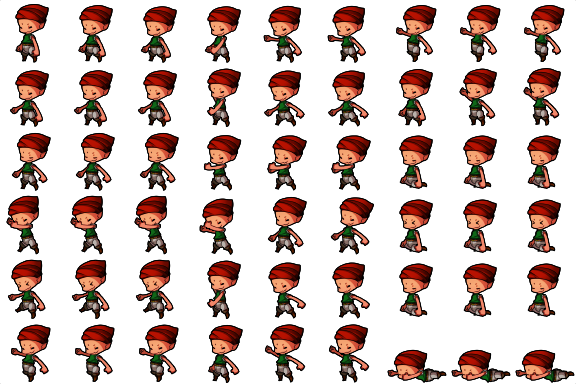
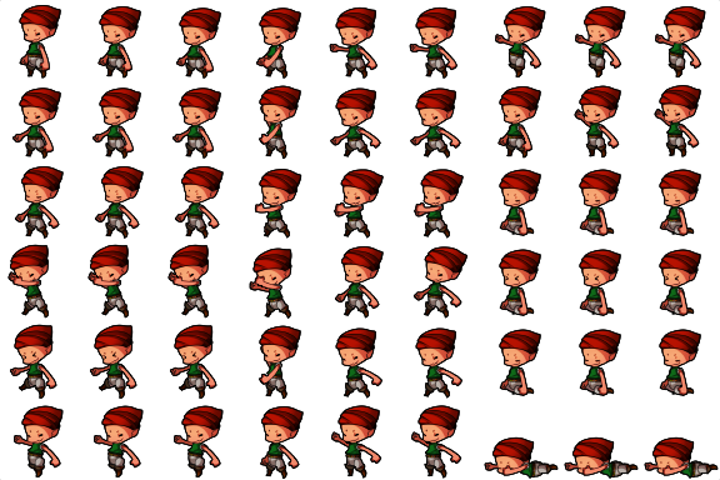
ダメージを受けたらスコアが減るように

diff --git a/Resources/tileSets.tsx b/Resources/tileSets.tsx
@@ -1,4 +1,4 @@
 <?xml version="1.0" encoding="UTF-8"?>
-<tileset version="1.2" tiledversion="1.2.5" name="TileSets" tilewidth="48" tileheight="48" tilecount="35" columns="5">
- <image source="image/TileSets.png" trans="007f7f" width="240" height="336"/>
+<tileset version="1.2" tiledversion="1.2.5" name="tileSets" tilewidth="64" tileheight="64" tilecount="35" columns="5">
+ <image source="image/TileSets.png" trans="007f7f" width="320" height="448"/>
 </tileset>

diff --git a/Classes/module/Move.cpp b/Classes/module/Move.cpp
@@ -21,7 +21,7 @@ bool Move::operator()(cocos2d::Sprite & sp, ActData & act)
 
 			act.totalDis += act.speed;
 
-			if (act.totalDis >= 48)
+			if (act.totalDis >= 64)
 			{
 				act.totalDis = 0;
 				act.moveFlag = false;

diff --git a/Classes/manager/ScoreManager.cpp b/Classes/manager/ScoreManager.cpp
@@ -47,5 +47,9 @@ void ScoreManager::ResetScore(cocos2d::Layer* layer)
 
 void ScoreManager::update()
 {
+	if (score < 0)
+	{
+		score = 0;
+	}
 	number->setNumber(score);
 }
